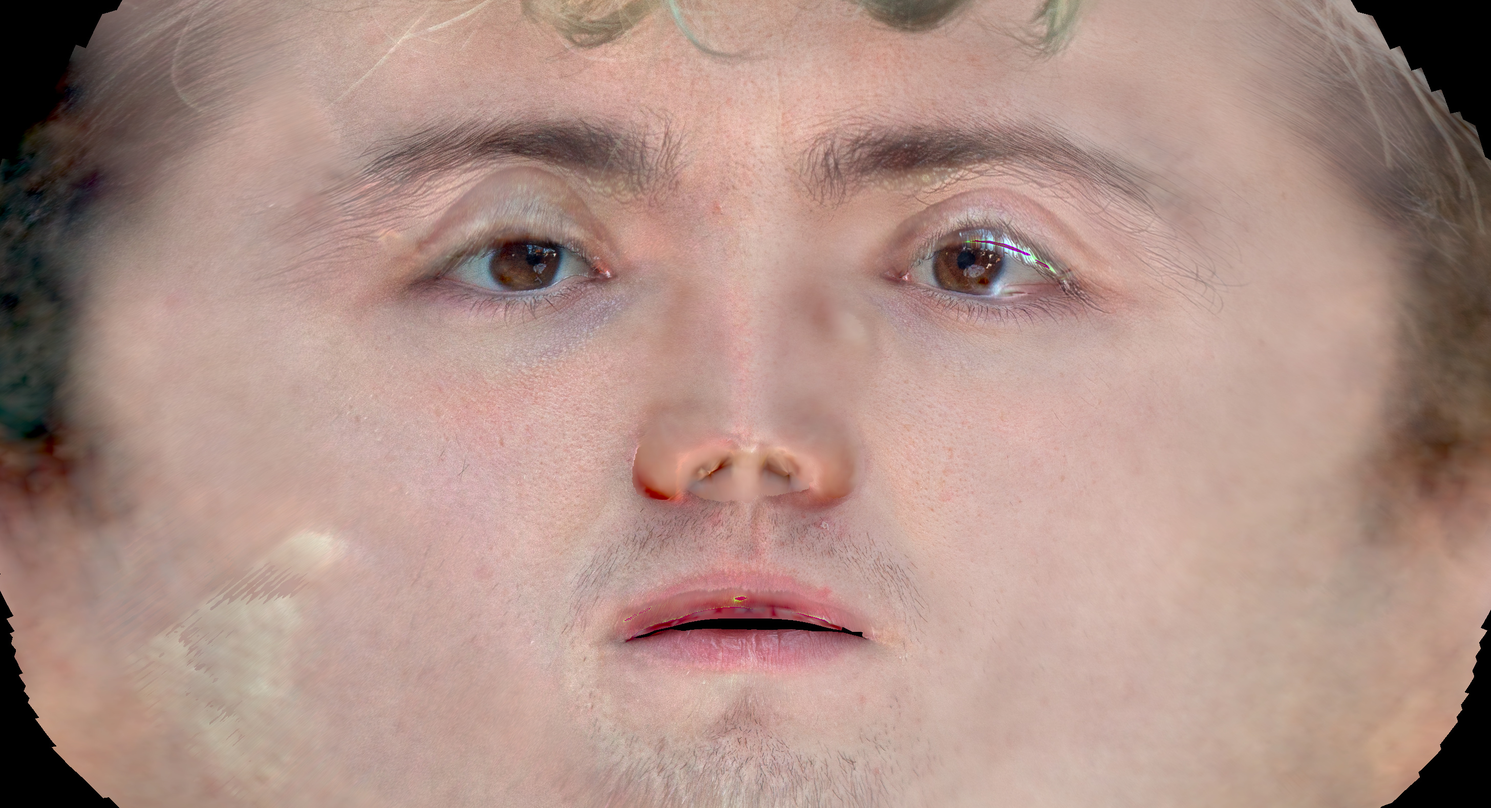
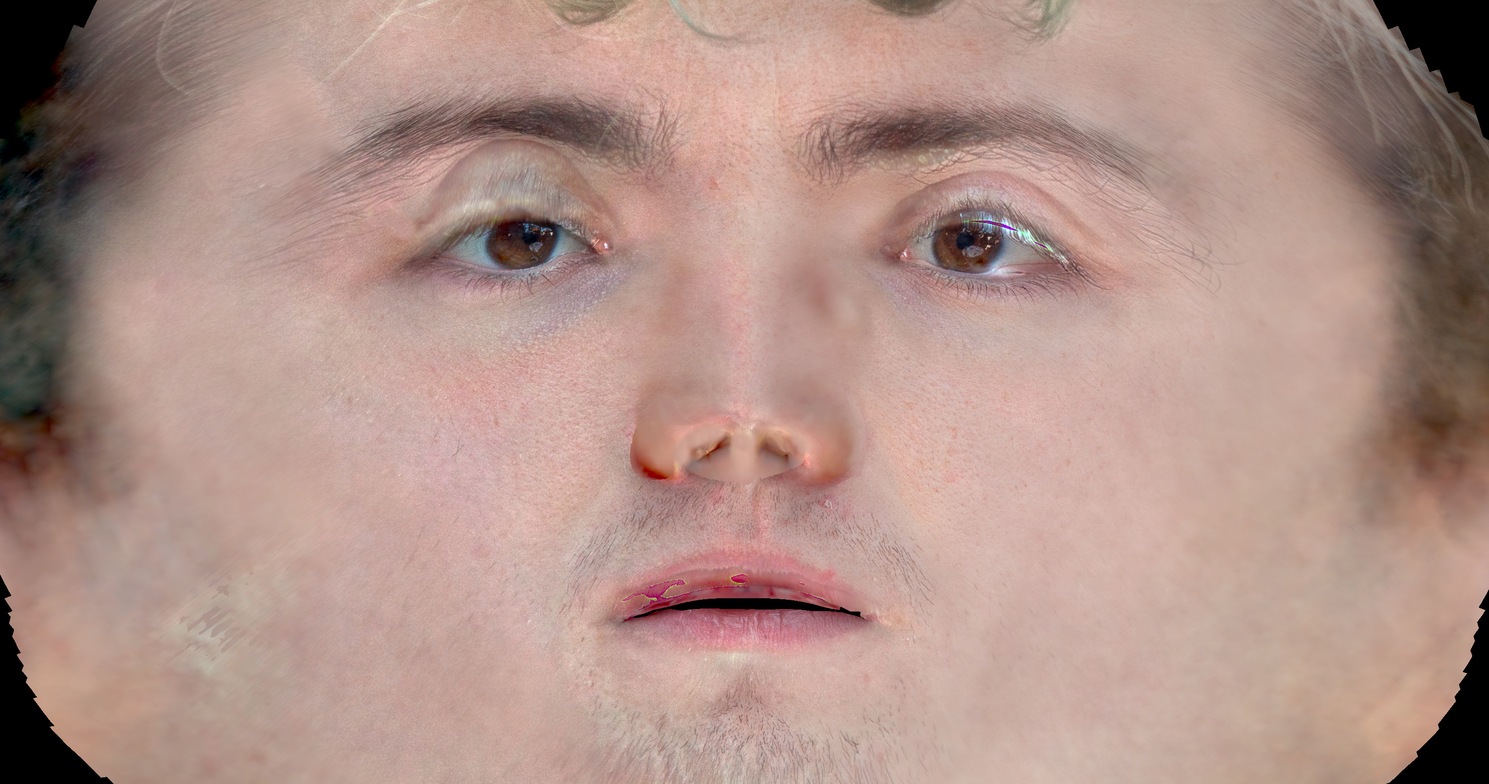
refine

diff --git a/recon.tex b/recon.tex
@@ -488,50 +488,51 @@ $\mathcal{L}_\mathrm{reg}$则是正则化项，包括：
 3DMM系数，顶点偏移、拉普拉斯、环境光照、光照修正场强度、梯度的正则项系数分别为
 $10^{-5}$、$10^{-9}$、$40$、$10^{-6}$、$10^{-3}$、$10^{-3}$。
 逆渲染的分辨率为$1024\times1024$，运行了1000次优化迭代。
-本实现在NVIDIA RTX3060显卡上，单张照片的逆渲染优化约需要20秒。
+在优化时，前100次迭代仅优化3DMM的反射率系数和SH光照参数，后续迭代则同时优化所有参数。
+本实现在NVIDIA RTX3060显卡上，单张照片的逆渲染优化约需要16秒。
 
 \subsection{重新渲染效果}
 
 \begin{figure}
 \centering
     \begin{tikzpicture}[
-        node distance=1pt and 0pt,
+        node distance=2pt and 0pt,
         image/.style={inner sep=0pt, outer sep=0pt},
     ]
-        \node (a) [image] {\includegraphics[width=1.05in]{figures/diffrast_face/00015/target_hs}};
-        \node (b) [image,right=of a] {\includegraphics[width=1.05in]{figures/diffrast_face/00015/initial}};
-        \node (c) [image,right=of b] {\includegraphics[width=1.05in]{figures/diffrast_face/00015/final_rerendered}};
-        \node (d) [image,right=of c] {\includegraphics[width=1.05in]{figures/diffrast_face/00015/final_rot_rerendered}};
-        \node (e) [image,right=of d] {\includegraphics[width=1.05in]{figures/diffrast_face/00015/final_geo_rerendered}};
-        \node (f) [image,right=of e] {\includegraphics[width=1.05in]{figures/diffrast_face/00015/relight}};
+        \node (a) [image] {\includegraphics[height=1.27in]{figures/diffrast_face/00015/target_hs}};
+        \node (b) [image,right=of a] {\includegraphics[height=1.27in,trim={2cm 0 2cm 0},clip]{figures/diffrast_face/00015/initial}};
+        \node (c) [image,right=of b] {\includegraphics[height=1.27in,trim={2cm 0 2cm 0},clip]{figures/diffrast_face/00015/final_rerendered}};
+        \node (d) [image,right=of c] {\includegraphics[height=1.27in,trim={1cm 0 3cm 0},clip]{figures/diffrast_face/00015/final_rot_rerendered}};
+        \node (e) [image,right=of d] {\includegraphics[height=1.27in,trim={2cm 0 2cm 0},clip]{figures/diffrast_face/00015/final_geo_rerendered}};
+        \node (f) [image,right=of e] {\includegraphics[height=1.27in,trim={2cm 0 2cm 0},clip]{figures/diffrast_face/00015/relight}};
 
-        \node (a) [image,below=of a] {\includegraphics[width=1.05in]{figures/diffrast_face/00029/target_hs}};
-        \node (b) [image,right=of a] {\includegraphics[width=1.05in]{figures/diffrast_face/00029/initial}};
-        \node (c) [image,right=of b] {\includegraphics[width=1.05in]{figures/diffrast_face/00029/final_rerendered}};
-        \node (d) [image,right=of c] {\includegraphics[width=1.05in]{figures/diffrast_face/00029/final_rot_rerendered}};
-        \node (e) [image,right=of d] {\includegraphics[width=1.05in]{figures/diffrast_face/00029/final_geo_rerendered}};
-        \node (f) [image,right=of e] {\includegraphics[width=1.05in]{figures/diffrast_face/00029/relight}};
+        \node (a) [image,below=of a] {\includegraphics[height=1.27in]{figures/diffrast_face/00029/target_hs}};
+        \node (b) [image,right=of a] {\includegraphics[height=1.27in,trim={2cm 0 2cm 0},clip]{figures/diffrast_face/00029/initial}};
+        \node (c) [image,right=of b] {\includegraphics[height=1.27in,trim={2cm 0 2cm 0},clip]{figures/diffrast_face/00029/final_rerendered}};
+        \node (d) [image,right=of c] {\includegraphics[height=1.27in,trim={1cm 0 3cm 0},clip]{figures/diffrast_face/00029/final_rot_rerendered}};
+        \node (e) [image,right=of d] {\includegraphics[height=1.27in,trim={2cm 0 2cm 0},clip]{figures/diffrast_face/00029/final_geo_rerendered}};
+        \node (f) [image,right=of e] {\includegraphics[height=1.27in,trim={2cm 0 2cm 0},clip]{figures/diffrast_face/00029/relight}};
 
-        \node (a) [image,below=of a] {\includegraphics[width=1.05in]{figures/diffrast_face/00017/target_hs}};
-        \node (b) [image,right=of a] {\includegraphics[width=1.05in]{figures/diffrast_face/00017/initial}};
-        \node (c) [image,right=of b] {\includegraphics[width=1.05in]{figures/diffrast_face/00017/final_rerendered}};
-        \node (d) [image,right=of c] {\includegraphics[width=1.05in]{figures/diffrast_face/00017/final_rot_rerendered}};
-        \node (e) [image,right=of d] {\includegraphics[width=1.05in]{figures/diffrast_face/00017/final_geo_rerendered}};
-        \node (f) [image,right=of e] {\includegraphics[width=1.05in]{figures/diffrast_face/00017/relight}};
+        \node (a) [image,below=of a] {\includegraphics[height=1.27in]{figures/diffrast_face/00017/target_hs}};
+        \node (b) [image,right=of a] {\includegraphics[height=1.27in,trim={2cm 0 2cm 0},clip]{figures/diffrast_face/00017/initial}};
+        \node (c) [image,right=of b] {\includegraphics[height=1.27in,trim={2cm 0 2cm 0},clip]{figures/diffrast_face/00017/final_rerendered}};
+        \node (d) [image,right=of c] {\includegraphics[height=1.27in,trim={1cm 0 3cm 0},clip]{figures/diffrast_face/00017/final_rot_rerendered}};
+        \node (e) [image,right=of d] {\includegraphics[height=1.27in,trim={2cm 0 2cm 0},clip]{figures/diffrast_face/00017/final_geo_rerendered}};
+        \node (f) [image,right=of e] {\includegraphics[height=1.27in,trim={2cm 0 2cm 0},clip]{figures/diffrast_face/00017/relight}};
 
-        \node (a) [image,below=of a] {\includegraphics[width=1.05in]{figures/diffrast_face/04114/target_hs}};
-        \node (b) [image,right=of a] {\includegraphics[width=1.05in]{figures/diffrast_face/04114/initial}};
-        \node (c) [image,right=of b] {\includegraphics[width=1.05in]{figures/diffrast_face/04114/final_rerendered}};
-        \node (d) [image,right=of c] {\includegraphics[width=1.05in]{figures/diffrast_face/04114/final_rot_rerendered}};
-        \node (e) [image,right=of d] {\includegraphics[width=1.05in]{figures/diffrast_face/04114/final_geo_rerendered}};
-        \node (f) [image,right=of e] {\includegraphics[width=1.05in]{figures/diffrast_face/04114/relight}};
+        \node (a) [image,below=of a] {\includegraphics[height=1.27in]{figures/diffrast_face/04114/target_hs}};
+        \node (b) [image,right=of a] {\includegraphics[height=1.27in,trim={2cm 0 2cm 0},clip]{figures/diffrast_face/04114/initial}};
+        \node (c) [image,right=of b] {\includegraphics[height=1.27in,trim={2cm 0 2cm 0},clip]{figures/diffrast_face/04114/final_rerendered}};
+        \node (d) [image,right=of c] {\includegraphics[height=1.27in,trim={1cm 0 3cm 0},clip]{figures/diffrast_face/04114/final_rot_rerendered}};
+        \node (e) [image,right=of d] {\includegraphics[height=1.27in,trim={2cm 0 2cm 0},clip]{figures/diffrast_face/04114/final_geo_rerendered}};
+        \node (f) [image,right=of e] {\includegraphics[height=1.27in,trim={2cm 0 2cm 0},clip]{figures/diffrast_face/04114/relight}};
 
-        \node (a) [image,below=of a] {\includegraphics[width=1.05in]{figures/diffrast_face/04038/target_hs}};
-        \node (b) [image,right=of a] {\includegraphics[width=1.05in]{figures/diffrast_face/04038/initial}};
-        \node (c) [image,right=of b] {\includegraphics[width=1.05in]{figures/diffrast_face/04038/final_rerendered}};
-        \node (d) [image,right=of c] {\includegraphics[width=1.05in]{figures/diffrast_face/04038/final_rot_rerendered}};
-        \node (e) [image,right=of d] {\includegraphics[width=1.05in]{figures/diffrast_face/04038/final_geo_rerendered}};
-        \node (f) [image,right=of e] {\includegraphics[width=1.05in]{figures/diffrast_face/04038/relight}};
+        \node (a) [image,below=of a] {\includegraphics[height=1.27in]{figures/diffrast_face/04038/target_hs}};
+        \node (b) [image,right=of a] {\includegraphics[height=1.27in,trim={2cm 0 2cm 0},clip]{figures/diffrast_face/04038/initial}};
+        \node (c) [image,right=of b] {\includegraphics[height=1.27in,trim={2cm 0 2cm 0},clip]{figures/diffrast_face/04038/final_rerendered}};
+        \node (d) [image,right=of c] {\includegraphics[height=1.27in,trim={1cm 0 3cm 0},clip]{figures/diffrast_face/04038/final_rot_rerendered}};
+        \node (e) [image,right=of d] {\includegraphics[height=1.27in,trim={2cm 0 2cm 0},clip]{figures/diffrast_face/04038/final_geo_rerendered}};
+        \node (f) [image,right=of e] {\includegraphics[height=1.27in,trim={2cm 0 2cm 0},clip]{figures/diffrast_face/04038/relight}};
 
         \small
         \node [below=of a] {(a)目标图像};
@@ -573,7 +574,7 @@ $10^{-5}$、$10^{-9}$、$40$、$10^{-6}$、$10^{-3}$、$10^{-3}$。
 该贴图对应了图\ref{fig:rerender}中的第一行。
 可见，虽然照片中的人脸有明显的光照效果，纹理贴图中的颜色基本上是均匀的。
 这说明本文实现的光照模型可较好地拟合并解耦照片中的光照效果。
-同时，正脸部分毛孔和胡须的细节也被很好地保留了下来，两侧从照片中看不到的部分也被很好地补全了。
+同时，正脸部分毛孔和胡须的细节也被很好地保留了下来，两侧从照片中看不到的部分也被很好地补全了，且实现了平滑过渡。
 这说明了本文使用的纹理补全方法的有效性。
 
 \subsection{边缘对齐效果比较}
